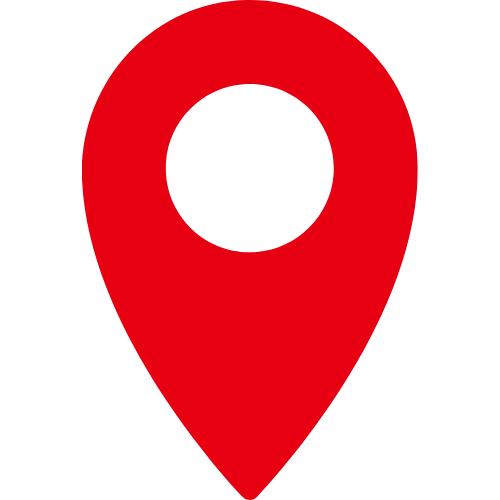
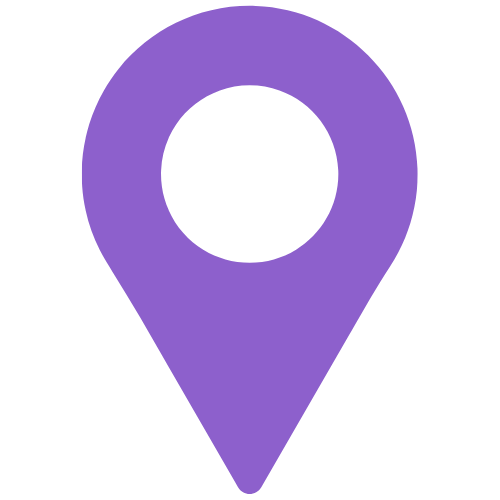
feat: add popup and markers to a map. add preview markers on load

diff --git a/src/pages/Root/MainPage/MainMap/index.tsx b/src/pages/Root/MainPage/MainMap/index.tsx
@@ -1,3 +1,5 @@
+/* eslint-disable jsx-a11y/no-static-element-interactions */
+/* eslint-disable jsx-a11y/click-events-have-key-events */
 /* eslint-disable @typescript-eslint/comma-dangle */
 /* eslint-disable object-curly-newline */
 /* eslint-disable no-unsafe-optional-chaining */
@@ -6,8 +8,12 @@ import mapboxgl from 'mapbox-gl'; // eslint-disable-line import/no-webpack-loade
 import { useAppDispatch, useAppSelector } from '../../../../store/index';
 import 'mapbox-gl/dist/mapbox-gl.css';
 import { mapboxActions } from '../../../../store/mapbox';
-import styles from './style.module.scss';
+import './mainmap.scss';
 import { getLocationData } from '../../../../store/mapbox/mapboxThunks';
+import {
+  addMarkerCurLocation,
+  addMarkerMemoir,
+} from '../../../../data/MainPageMap/helperFns';
 // import pin from '../../../../data/MainPageMap/marker.png';
 // eslint-disable-next-line operator-linebreak
 mapboxgl.accessToken =
@@ -24,6 +30,7 @@ const MainMap = () => {
   // eslint-disable-next-line operator-linebreak
   const { userLocation, mapboxMsg, clickLong, clickLat, place, country } =
     useAppSelector((state) => state.mapboxReducer);
+  const { previews } = useAppSelector((state) => state.memoirReducer);
   const mapContainer = useRef(null);
   const map = React.useRef<mapboxgl.Map | null>(null);
   // const [lng, setLng] = useState(-70.9);
@@ -67,22 +74,8 @@ const MainMap = () => {
       ],
       zoom: 5,
     });
-
-    const el = document.createElement('div');
-    el.className = `${styles.marker}`;
-    new mapboxgl.Marker({
-      element: el,
-      anchor: 'bottom',
-    })
-      .setLngLat(userLocation)
-      .addTo(map.current);
-
-    new mapboxgl.Popup({
-      offset: 30,
-    })
-      .setLngLat(userLocation)
-      .setHTML('<p>You are here</p>')
-      .addTo(map.current);
+    console.log(previews);
+    addMarkerCurLocation(map, userLocation);
 
     map.current.on('click', (e: mapboxgl.MapMouseEvent) => {
       const clickLongitude = e.lngLat.lng;
@@ -92,15 +85,10 @@ const MainMap = () => {
     });
   });
 
-  // useEffect(() => {
-  //   if (!map.current) return;
-  //   map.current.on('move', () => {
-  //     if (!map.current) return;
-  //     setLng(+map.current.getCenter().lng.toFixed(4));
-  //     setLat(+map.current.getCenter().lat.toFixed(4));
-  //     setZoom(+map.current.getZoom().toFixed(2));
-  //   });
-  // });
+  useEffect(() => {
+    if (!map.current) return;
+    previews.forEach((preview) => addMarkerMemoir(map, preview));
+  }, [previews]);
 
   useEffect(() => {
     if (clickLocation[0] === 0 && clickLocation[1] === 0) return;
@@ -114,7 +102,17 @@ const MainMap = () => {
   //   setLat(Number(userLocation[1].toFixed(4)));
   // }, [userLocation]);
 
-  return <div ref={mapContainer} className={styles.mapContainer} />;
+  return (
+    <div
+      ref={mapContainer}
+      className="mapContainer"
+      onClick={(e) => {
+        const element = e.target as HTMLElement;
+        if (element && element.id !== 'homepin') return;
+        console.log(element.id);
+      }}
+    />
+  );
 };
 
 export default MainMap;

diff --git a/src/data/MainPageMap/helperFns.ts b/src/data/MainPageMap/helperFns.ts
@@ -1,0 +1,49 @@
+/* eslint-disable @typescript-eslint/comma-dangle */
+import mapboxgl from 'mapbox-gl'; // eslint-disable-line import/no-webpack-loader-syntax
+import * as memoirTypes from '../../store/memoir/memoirTypes';
+
+export function addMarkerCurLocation(
+  map: React.MutableRefObject<mapboxgl.Map | null>,
+  userLocation: [number, number]
+) {
+  if (!map || !map.current) return;
+  const el = document.createElement('div');
+  el.className = 'homemarker';
+  new mapboxgl.Marker({
+    element: el,
+    anchor: 'bottom',
+  })
+    .setLngLat(userLocation)
+    .addTo(map.current);
+
+  new mapboxgl.Popup({
+    offset: 30,
+    closeOnClick: false,
+  })
+    .setLngLat(userLocation)
+    .setHTML('<p id="homepin">You are here</p>')
+    .addTo(map.current);
+}
+
+export function addMarkerMemoir(
+  map: React.MutableRefObject<mapboxgl.Map | null>,
+  memoirData: memoirTypes.TMemoirPreview
+) {
+  if (!map || !map.current) return;
+  const el = document.createElement('div');
+  el.className = 'marker';
+  new mapboxgl.Marker({
+    element: el,
+    anchor: 'bottom',
+  })
+    .setLngLat(memoirData.memoirLocation)
+    .addTo(map.current);
+
+  new mapboxgl.Popup({
+    offset: 30,
+    closeOnClick: false,
+  })
+    .setLngLat(memoirData.memoirLocation)
+    .setHTML(`<p id="memoirpin">${memoirData.memoirName}</p>`)
+    .addTo(map.current);
+}

diff --git a/src/pages/Root/MainPage/MainMap/mainmap.scss b/src/pages/Root/MainPage/MainMap/mainmap.scss
@@ -1,0 +1,61 @@
+@use 'src/sass' as *;
+
+.mapContainer {
+  height: 600px;
+  width: 1580px;
+}
+
+.homemarker {
+  height: 35px;
+  width: 35px;
+  background-image: url('../../../../data/MainPageMap/home-marker.png');
+  background-position: center;
+  background-size: contain;
+  background-repeat: no-repeat;
+}
+
+.marker {
+  height: 35px;
+  width: 35px;
+  background-image: url('../../../../data/MainPageMap/marker.png');
+  background-position: center;
+  background-size: contain;
+  background-repeat: no-repeat;
+}
+
+.mapboxgl-popup-content {
+  min-width: 60px;
+  max-width: 200px;
+  min-height: 35px;
+  border: 2px solid #8D60CC;
+  border-left: 7px solid #8D60CC;
+  border-radius: 6px;
+  font-family: 'Comic Neue', cursive;
+  font-weight: 700;
+  font-size: 16px;
+  display: flex;
+  flex-direction: column;
+  align-items: center;
+  justify-content: center;
+  text-align: center;
+  padding: 10px 20px 10px 13px;
+  cursor: pointer;
+}
+
+.mapboxgl-popup-tip {
+  border: 10px solid transparent;
+  height: 0;
+  width: 0;
+  z-index: 1;
+}
+
+.mapboxgl-popup-anchor-bottom {
+  border-top-color: #8D60CC;
+}
+
+.mapboxgl-popup-close-button{
+  width: 10px;
+  height: 10px;
+  right: 4px;
+  color: #8D60CC;
+}

diff --git a/src/pages/Root/MainPage/index.tsx b/src/pages/Root/MainPage/index.tsx
@@ -5,6 +5,7 @@ import styles from './style.module.scss';
 import { useAppDispatch, useAppSelector } from '../../../store';
 import { isLoggedIn } from '../../../store/user/userThunks';
 import MainMap from './MainMap';
+import { getMemoirPreviews } from '../../../store/memoir/memoirThunks';
 
 const MainPage = () => {
   const { id } = useAppSelector((state) => state.userReducer);
@@ -12,9 +13,19 @@ const MainPage = () => {
   const callbackIsLoggedIn = useCallback(async () => {
     await dispatchApp(isLoggedIn());
   }, []);
+  const callbackGetMemoirPreviews = useCallback(async () => {
+    await dispatchApp(getMemoirPreviews());
+  }, []);
+
   useEffect(() => {
     callbackIsLoggedIn();
   }, []);
+
+  useEffect(() => {
+    if (!id) return;
+    callbackGetMemoirPreviews();
+  }, [id]);
+
   return (
     <main className={styles.main}>
       <MainMap />

diff --git a/src/store/memoir/memoirTypes.ts b/src/store/memoir/memoirTypes.ts
@@ -84,7 +84,7 @@ export type TUpdMemoirReq = {
 
 export type TMemoirPreview = {
   memoirID: string;
-  memoirLocation: number[];
+  memoirLocation: [number, number];
   memoirName: string;
 };
 
